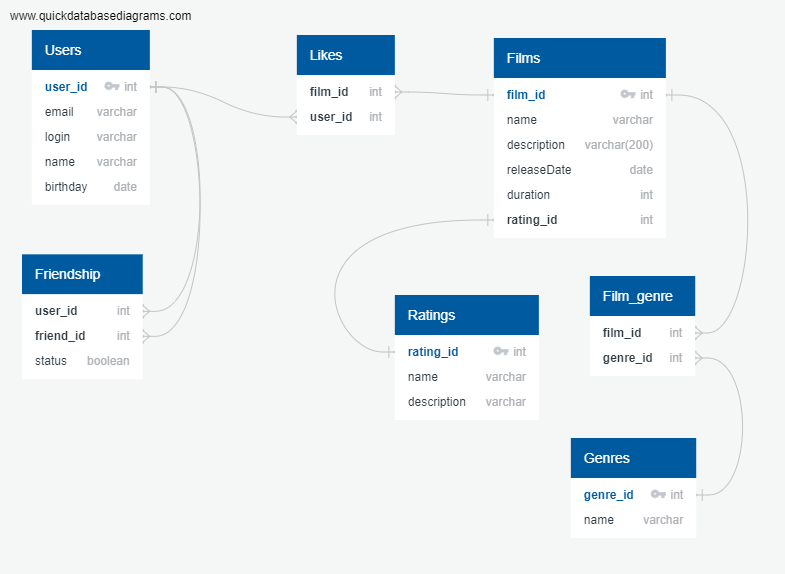
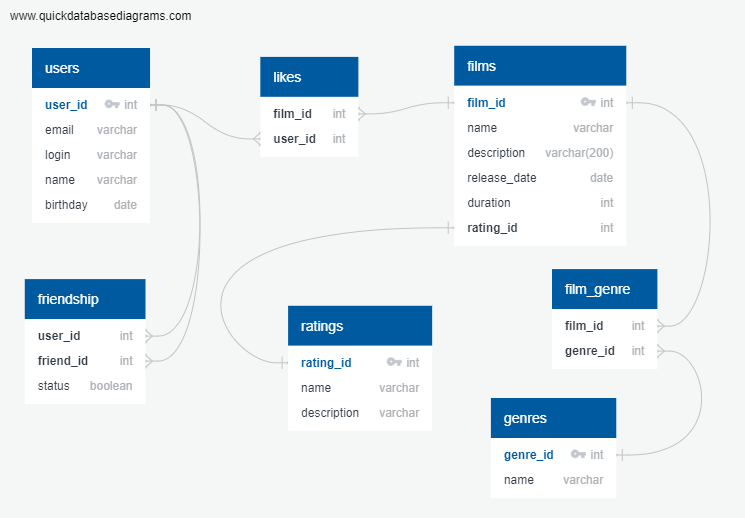
Правки после комментариев

diff --git a/README.md b/README.md
@@ -1,26 +1,26 @@
 # Java-filmorate
 ## Диаграмма базы данных проекта
-![image](https://github.com/EvgeniyaLapteva/java-filmorate/blob/bb3b69ddca70edb3798b2e68e8356a95f860542d/src/main/resources/diagram.png)
+![image](https://github.com/EvgeniyaLapteva/java-filmorate/blob/2053f32f6f46e56c66d41eba1155757f21a28355/src/main/resources/diagram.png)
 ***
 ### Примеры запросов к базе данных
 
 1. Получение списка всех фильмов
 ```
 SELECT *
-FROM Films;
+FROM films;
 ```
 2. Получение фильма по id
 ```
 SELECT *
-FROM Films
+FROM films
 WHERE film_id = {id};
 ```
 3. Получение списка популярных фильмов
 ```
 SELECT f.name,
         COUNT(l.user_id) AS likes_count
-FROM Likes AS l
-RIGHT OUTER JOIN Films AS f ON l.film_id=f.film_id
+FROM likes AS l
+RIGHT OUTER JOIN films AS f ON l.film_id=f.film_id
 GROUP BY f.name
 ORDER BY likes_count DESC
 LIMIT {count};
@@ -28,25 +28,21 @@ LIMIT {count};
 4. Получение списка всех пользователей
 ```
 SELECT *
-FROM Users;
+FROM users;
 ```
 5. Получение пользователя по id
 ```
 SELECT *
-FROM Users
+FROM users
 WHERE user_id = {id};
 ```
 6. Получение списка друзей пользователя по id
 ```
-SELECT user_id
-FROM Users
+SELECT *
+FROM users
 WHERE user_id IN (SELECT friend_id
-                FROM Friendship
+                FROM friendship
                 WHERE user_id = {id}
-                AND status = 'true')
-OR user_id IN (SELECT user_id
-                FROM Friendship
-                WHERE friend_id = {id}
                 AND status = 'true');
 ```
 7. Получение списка общих друзей пользователей {id} и {other_id}
@@ -56,7 +52,7 @@ From Friendship
 WHERE user_id = {id}
 AND status = 'true'
 AND friend_id IN (SELECT friend_id
-                FROM Friendship
+                FROM friendship
                 WHERE user_id = {other_id}
                 AND status = 'true'
                 AND friend_id <> {id})
